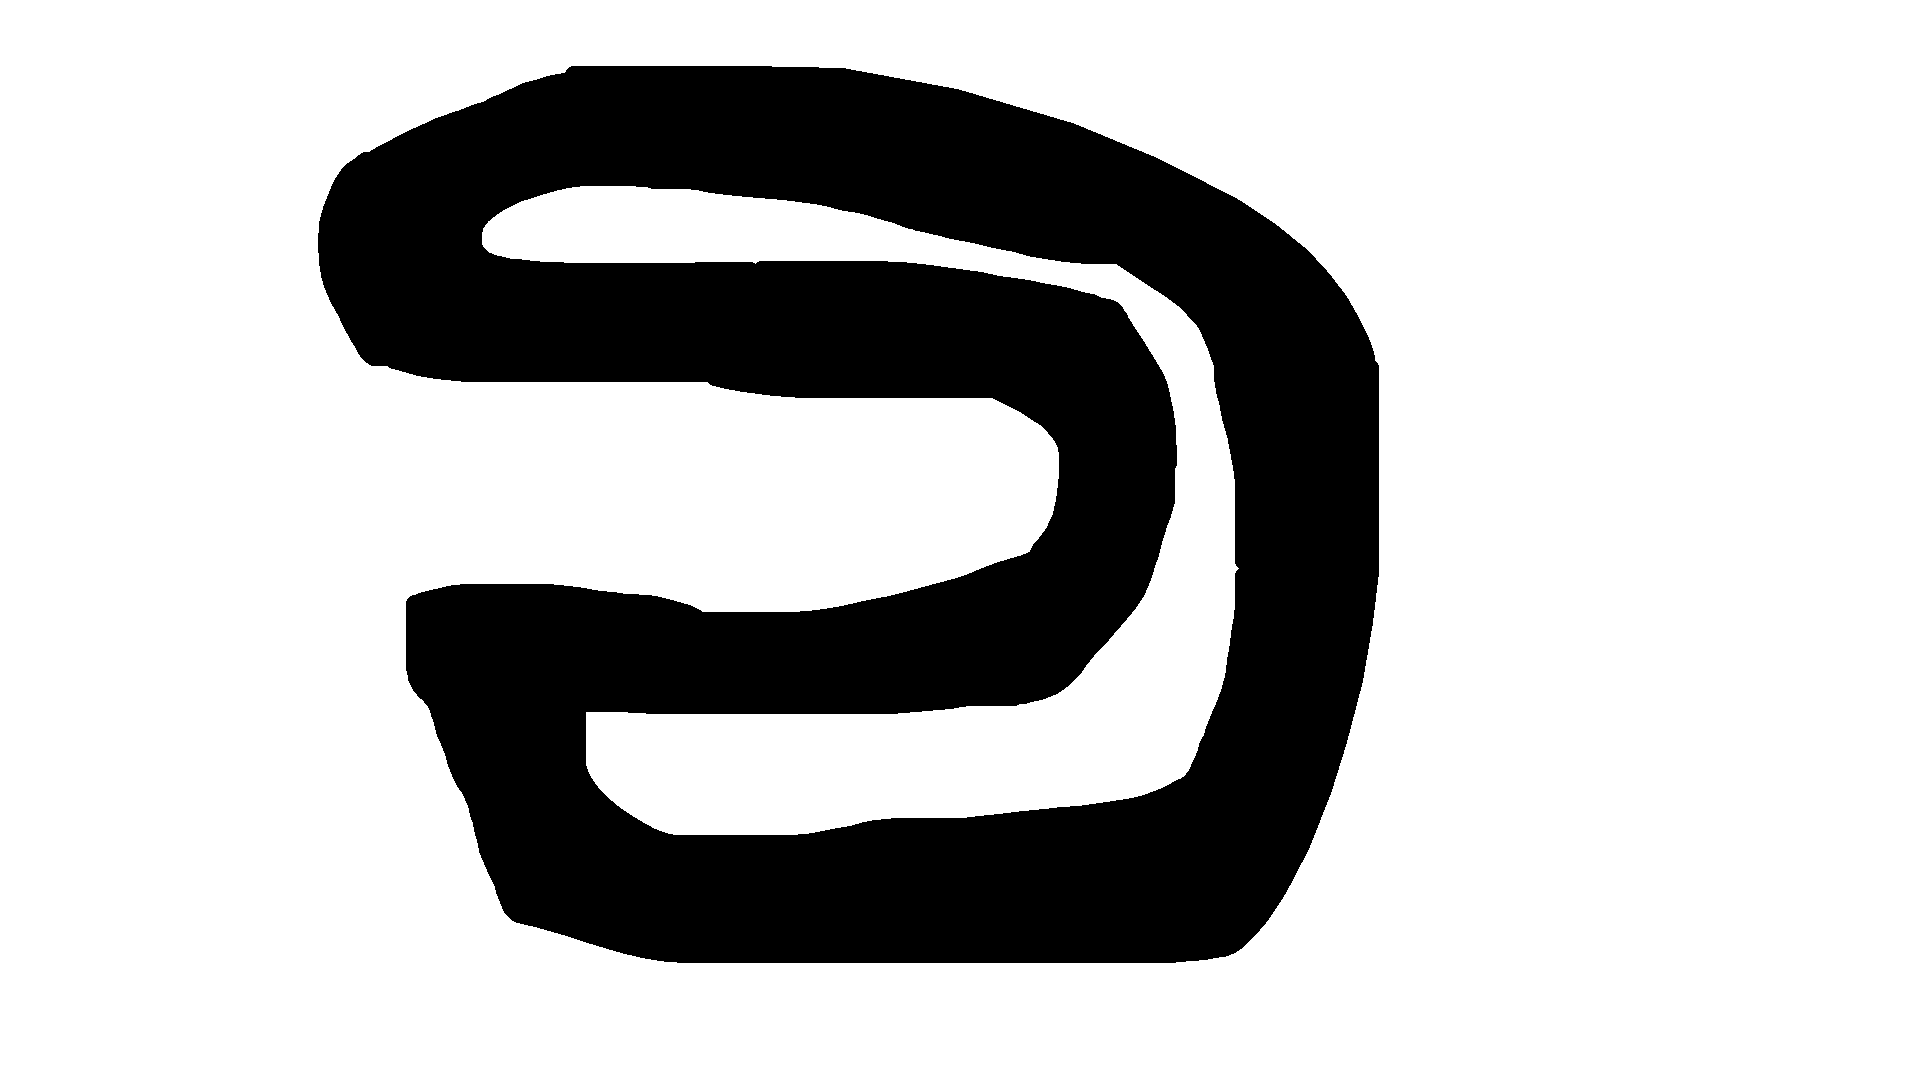
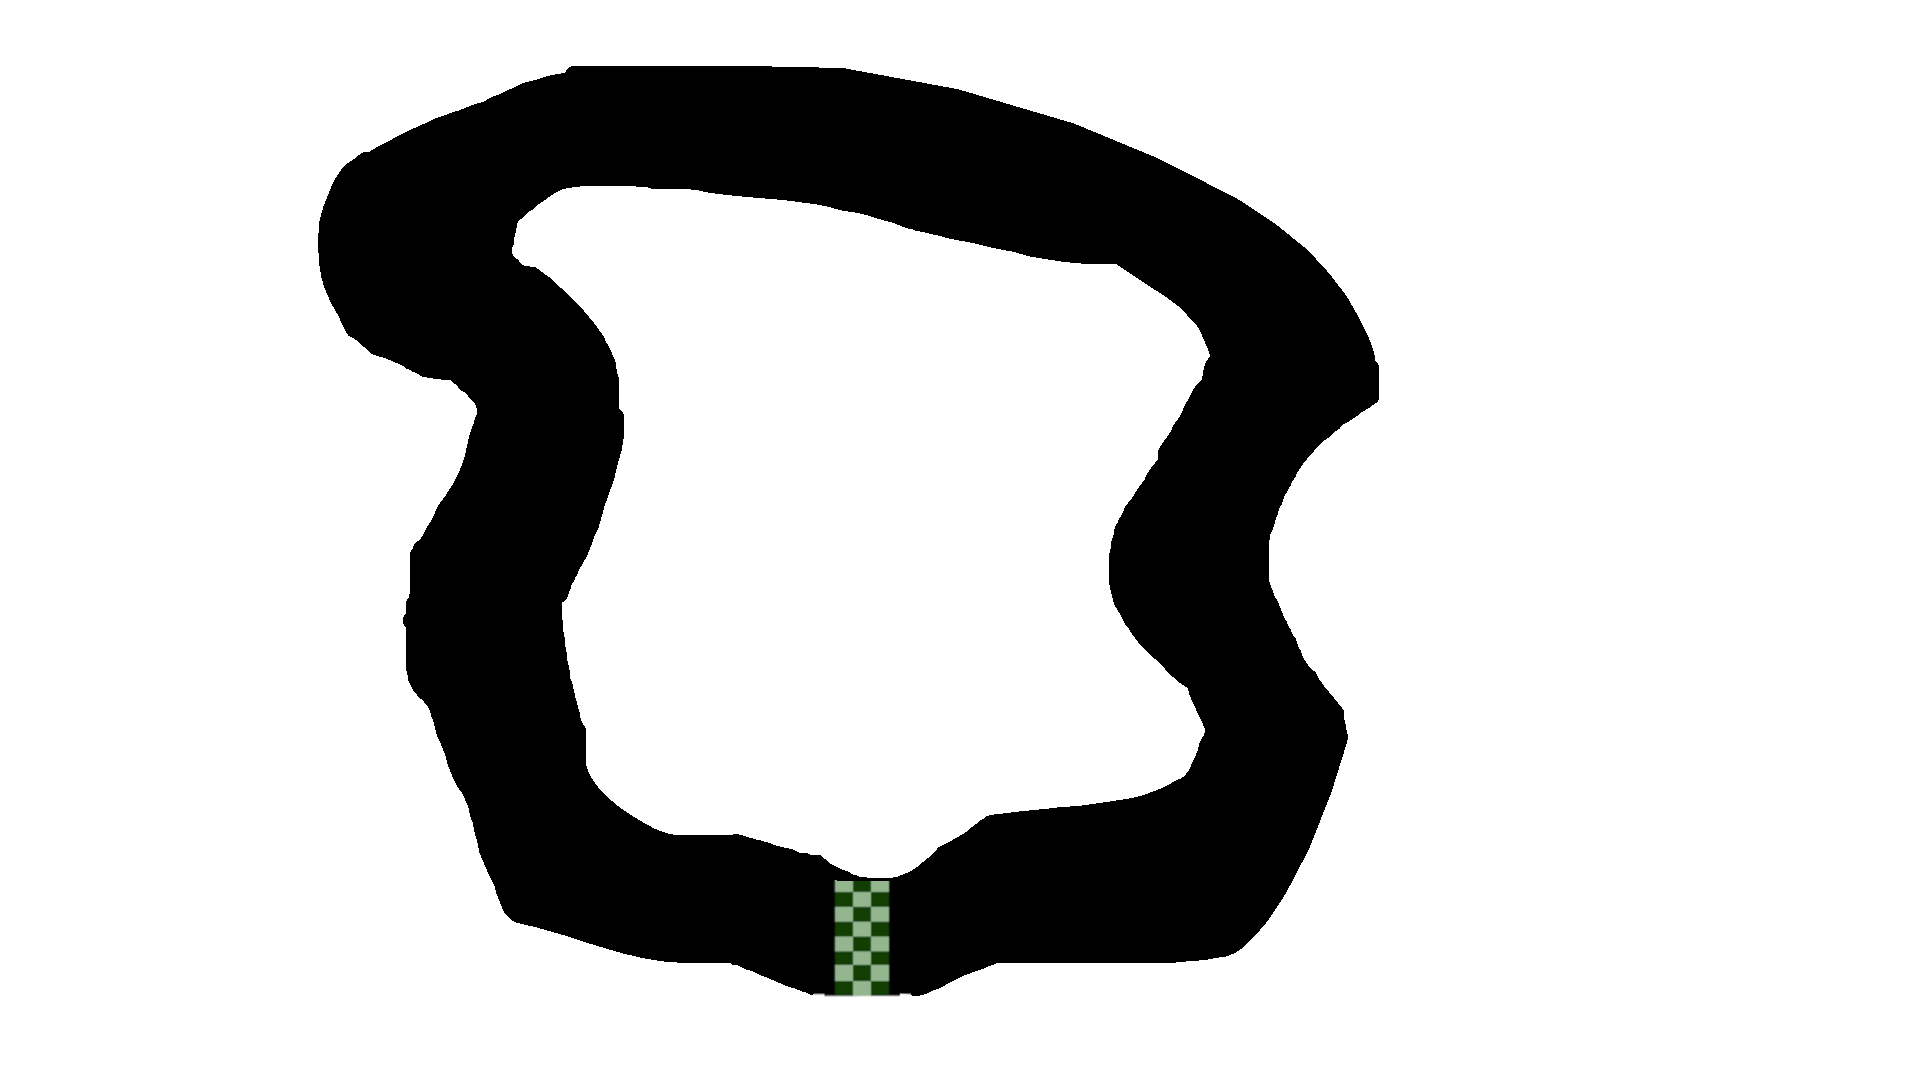
custom map

Changed region(s): [[0.1875, 0.2444, 0.7188, 0.6722], [0.375, 0.7333, 0.5312, 0.9472], [0.25, 0.1833, 0.2812, 0.2444]]

diff --git a/project.py b/project.py
@@ -75,7 +75,7 @@ def racecar_simulator(genomes, configurations):
     alive_font = pygame.font.SysFont("Arial", 20)
 
     # Read in environment image map
-    environment = pygame.image.load("assets/environments/map01.png").convert()
+    environment = pygame.image.load("assets/environments/custom_map.png").convert()
 
     # Iterate generation counter as global variable 
     global current_generation
